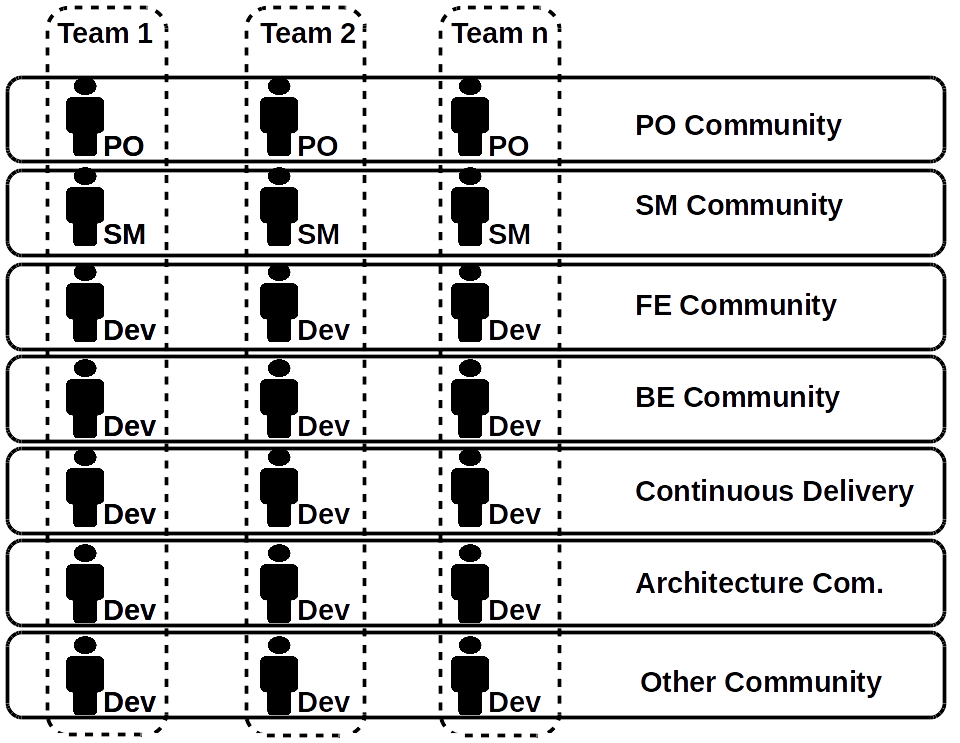
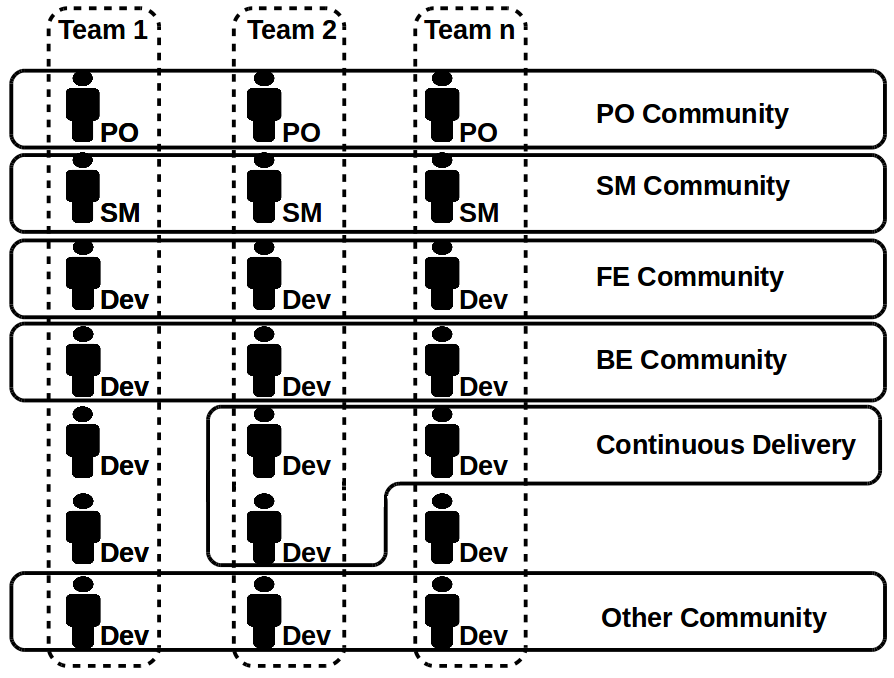
Add tex to Spotify section

Changed region(s): [[0.0, 0.0, 0.9966, 1.0], [0.6644, 0.7743, 0.9362, 0.8053], [0.6644, 0.1549, 0.906, 0.1858]]

diff --git a/content/scaling.tex b/content/scaling.tex
@@ -80,7 +80,7 @@ En una organización grande, independientemente de Scrum, se suelen formar comun
 
 \begin{figure}[h]
   \centering
-  \includegraphics[width=0.70\textwidth]{Communities}
+  \includegraphics[width=0.60\textwidth]{Communities}
   \caption{Ejemplo de comunidades}
   \centering
   \label{fig:Communities} %\ref{fig:Communities}
@@ -130,7 +130,22 @@ En cuanto a Scrum, el área de operaciones no necesita implementar Scrum, pero s
 
 \section{Modelos de escalamiento}
 
-Existen diversos modelos, marcos y frameworks para escalamiento como lo son el SAFe, LeSS, modelo Nexus, modelo Spotify, DAD, Lean Management, Agile Portfolio Management (APM), Recipes for Agile Governance in the Enterprise (RAGE) y otros. A continuación una breve reseña de algunos de ellos.
+Existen diversos modelos, marcos y frameworks para escalamiento como lo son el modelo Spotify, SAFe, LeSS, Nexus, DAD, Lean Management, Agile Portfolio Management (APM), Recipes for Agile Governance in the Enterprise (RAGE) y otros. A continuación una breve reseña de algunos de ellos.
+
+\subsection{Spotify}
+
+Spotify es un caso de estudio que demuestra que puede ser aplicado más allá de pequeñas empresas o startup, sino en empresas más grandes (Spotify constaba en 2014 de aproximadamente de 250 personas en tres países). Por este motivo es un modelo de referencia. El modelo de Spotify consta de equipos escuadrones (squad), equivalentes a Equipos Scrum, con un PO y un SM llamado también Team Facilitator (Coach del equipo). Los escuadrones relacionados se agrupan en tribus (tribe) de no más de 100 personas, conformando un área de producto (como por ejemplo un tipo de producto) o área funcional (como por ejemplo infraestructura). La tribu tiene un líder de tribu (Tribe lead) quien se encarga de asegurar un alto rendimiento de la tribu, dar soporte a los líderes de los capítulos, facilitar y entrenar a los SM y construir liderazgo dentro de la tribu. 
+
+\begin{figure}[h]
+  \centering
+  \includegraphics[width=0.99\textwidth]{Spotify_organizational_model}
+  \caption{Modelo organizacional Spotify}
+  \centering
+  \label{fig:Spotify_organizational_model} %\ref{fig:Spotify_organizational_model}
+\end{figure}
+
+La tribu también tiene un líder de producto (PL) y uno de diseño (DL). Dentro de cada tribu hay capítulos (Chapter) y cada uno engloba un área funcional técnica de ingeniería, agrupando a los miembros de diferentes escuadrones con habilidades similares y que trabajan dentro del mismo área de competencia (por ejemplo el capítulo QA, BE, FE, etc.). Cada capítulo tiene un líder del capítulo ("Chapter lead" o CL) quien se encarga del desarrollo profesional, la cultura de la ingeniería, el apoyo del escuadrón y en asegurar la contratación de las personas adecuadas. Los líderes de capítulo suelen ser desarrolladores a tiempo parcial, por lo general se sientan en uno de los escuadrones de la tribu. 
+Las diferentes tribus se pueden relacionar de diferentes maneras. Dos de ellas son la alianza (Alliance) y las comunidades (Guild). Una comunidad es una "comunidad de interés" (explicadas anteriormente). Los capítulos siempre son locales para una tribu, mientras que una comunidad generalmente es transversal a varias tribus. Cada comunidad puede tener un "coordinador de comunidad" y su alcance es más flexible. Y por último, la alianza une a diferentes comunidades por cohesión funcional de producto y tiene tres líderes serviciales (TL, PL y DL) quienes facilitan el trabajo de los líderes de las tribus unidas y el funcionamiento de las tribus, en general.
 
 \subsection{SAFe}
 
@@ -153,4 +168,4 @@ Si bien estos modelos tiene distintos grados de aceptación y éxito en muchas o
 
 \section{Equipo de mejora continua}
 
-Como se ha visto, el escalamiento no es tarea simple y no existe una solución universal. Se puede dejar que los cambios organizacionales emerjan de abajo hacia arriba (desde los equipos, comunidades o individuos), sean dirigidos por un ente director (coaches, consultoras o un líder transformacional) o algo mixto. Hay frameworks que recomiendan que, cuando se desea llevar a cabo transformaciones organizacionales hacia la agilidad, se constituya un equipo de expertos ágiles, centro de excelencia o equipo transversal de mejora continua \footnote{ScrumStudy recomienda un Scrum Guidance Body y DAD recominda un equipo de excelencia CoE.}. Este equipo se encargaría de hacer coaching a equipos y a otros roles, proponer iniciativas de mejoras organizacionales y apoyar la transformación cultural. El equipo puede estar formado por Coaches Ágiles Empresariales, gerentes ágiles, ingenieros de sistemas, ingenieros de operaciones, etc. Los miembros deben ser capaces de trabajar en cualquier nivel de la organización, teniendo una visión multidisciplinaria, global y perspectiva sistémica.
+Como se ha visto, el escalamiento no es tarea simple y no existe una solución universal. Se puede dejar que los cambios organizacionales emerjan de abajo hacia arriba (desde los equipos, comunidades o individuos), sean dirigidos por un ente director (coaches, consultoras o un líder transformacional) o algo mixto. Hay frameworks que recomiendan que, cuando se desea llevar a cabo transformaciones organizacionales hacia la agilidad, se constituya un equipo de expertos ágiles llamado centro de excelencia, centro de transformación digital, centro de soporte ágil o equipo transversal de mejora continua \footnote{ScrumStudy recomienda un Scrum Guidance Body y DAD recominda un equipo de excelencia CoE.}. Este equipo se encargaría de hacer coaching a equipos y a otros roles, proponer iniciativas de mejoras organizacionales y apoyar la transformación cultural. El equipo puede estar formado por Coaches Ágiles Empresariales, gerentes ágiles, ingenieros de sistemas, ingenieros de operaciones, capital humano, etc. Los miembros deben ser capaces de trabajar en cualquier nivel de la organización, teniendo una visión multidisciplinaria, global y perspectiva sistémica.

diff --git a/content/complementary.tex b/content/complementary.tex
@@ -252,13 +252,13 @@ El Poker de planeación o "Planning Poker"\footnote{El "Planning Poker" proviene
 La dinámica consiste en que el Product Owner inicia leyendo una historia de usuario ágil o describe una característica para los desarrolladores estimadores. Cada estimador posee una baraja de "Cartas de Poker de Planificación". Los valores representan el número de puntos de la historia, día ideal, u otras unidades en las que el equipo estima. Los estimadores discutir la función, haciendo preguntas al Product Owner, según sea necesario. Cuando la función se ha discutido plenamente, cada estimador selecciona de forma privada una tarjeta a representar a su estimación. Todas las tarjetas se revelaron a continuación, al mismo tiempo. Si todos los estimadores seleccionan el mismo valor, que se convierte en la estimación. Si no, los estimadores discuten sus estimaciones. Los estimadores de valores altos y bajos deben compartir sus razones. Tras un nuevo debate, cada estimador vuelve a seleccionar una tarjeta de estimación, y todas las tarjetas se revelan de nuevo al mismo tiempo. El proceso se repite hasta que se logre el consenso, o hasta que los estimadores deciden que la estimación ágil y planificación de un ítem en particular debe ser diferida hasta que la información adicional se puede adquirir.
 
 
-\subsubsection{Cartas de Poker de Planificación}
+\subsubsection{Cartas de estimación}
 
-Las Cartas de Poker de Planificación que más se usan son las de Fibonacci y las de talles de remeras:
+Las Cartas de Poker de Planificación que más se usan son las T-Shirts y las de Fibonacci:
 
 \begin{enumerate}
 
-\item \textbf{Talles de remeras:} Las cartas de talles contempla los valores XS (muy pequeño), S (Pequeño), M (Mediano), L (grande), XL (muy grande) y XXL (extra grande). En su forma más simple se puede usar: S, M y L. Estos valores sirven para estimar épicas, tamaños de historias o trabajo a alto nivel como el tamaño de funcionalidades. 
+\item \textbf{T-Shirts:} Las cartas de talles de camisetas (polera) contempla los valores XS (muy pequeño), S (Pequeño), M (Mediano), L (grande), XL (muy grande) y XXL (extra grande). En su forma más simple se puede usar: S, M y L. Estos valores sirven para estimar épicas, tamaños de historias o trabajo a alto nivel como el tamaño de funcionalidades. 
 
 \item \textbf{Fibonacci:} Las cartas Fibonacci modificada contempla los valores 0, 1, 2, 3, 5, 8, 13, 20, 40 y 100, que se basa en la secuencia fibonacci que se suele recomendar. Estos valores son útiles para estimar complejidad de historias o trabajo a nivel medio. Realizando una estimación relativa, estos valores corresponden a puntos de historia con los que se puede pesar un ítem de trabajo.
 

diff --git a/content/agile_software_engineering.tex b/content/agile_software_engineering.tex
@@ -1,11 +1,11 @@
 \chapter{Ingeniería de Software Ágil}
 
-Hacer agilidad no nos asegura calidad. Para ello primero hay que asegurarse de hacer ingeniería de software además de agilidad. Hay diferentes procesos de ingeniería y podemos tomar el siguiente: descubrimiento y requerimientos (Discovery \& Requirements), análisis y diseño (Analysis \& Design), implementación y pruebas (Implementation \& Testing), integración y pruebas (Integration \& Testing), despliegue (Delivery) y monitoreo (Monitoring). Hay que considerar que el proceso de Ingeniería de Software, si bien es secuencial, tiene las fases que se solapan. 
+Hacer agilidad no nos asegura calidad. Para ello primero hay que asegurarse de hacer ingeniería de software además de agilidad. Hay diferentes procesos de ingeniería y podemos tomar el siguiente: descubrimiento y requerimientos (Discovery \& Requirements), análisis y diseño (Analysis \& Design), implementación y pruebas (Implementation \& Testing), integración y pruebas (Integration \& Testing), despliegue (Delivery) y monitoreo (Monitoring). Hay que considerar que el proceso de Ingeniería de Software sobre una pieza de Software (feature o historia), si bien es secuencial, tiene las fases que se solapan. 
 
 \begin{figure}[h]
   \centering
   \includegraphics[width=0.99\textwidth]{PhasesOfSoftwareEngineering}
-  \caption{Fases de Ingeniería de Software}
+  \caption{Ciclo de ingeniería de Software}
   \centering
   \label{fig:PhasesOfSoftwareEngineering} %\ref{fig:PhasesOfSoftwareEngineering}
 \end{figure}

diff --git a/content/second_page.tex b/content/second_page.tex
@@ -34,7 +34,7 @@
 
 % Version of Build or PDF version
 Primera edición, versión 1.0.0, 2015, Córdoba, Argentina.
-Segunda edición, versión 2.0.0, 23 de Noviembre de 2017, Santiago de Chile.
+Segunda edición, versión 2.0.0, 26 de Noviembre de 2017, Santiago de Chile.
 
 % License text message
 \input{content/license_message}
